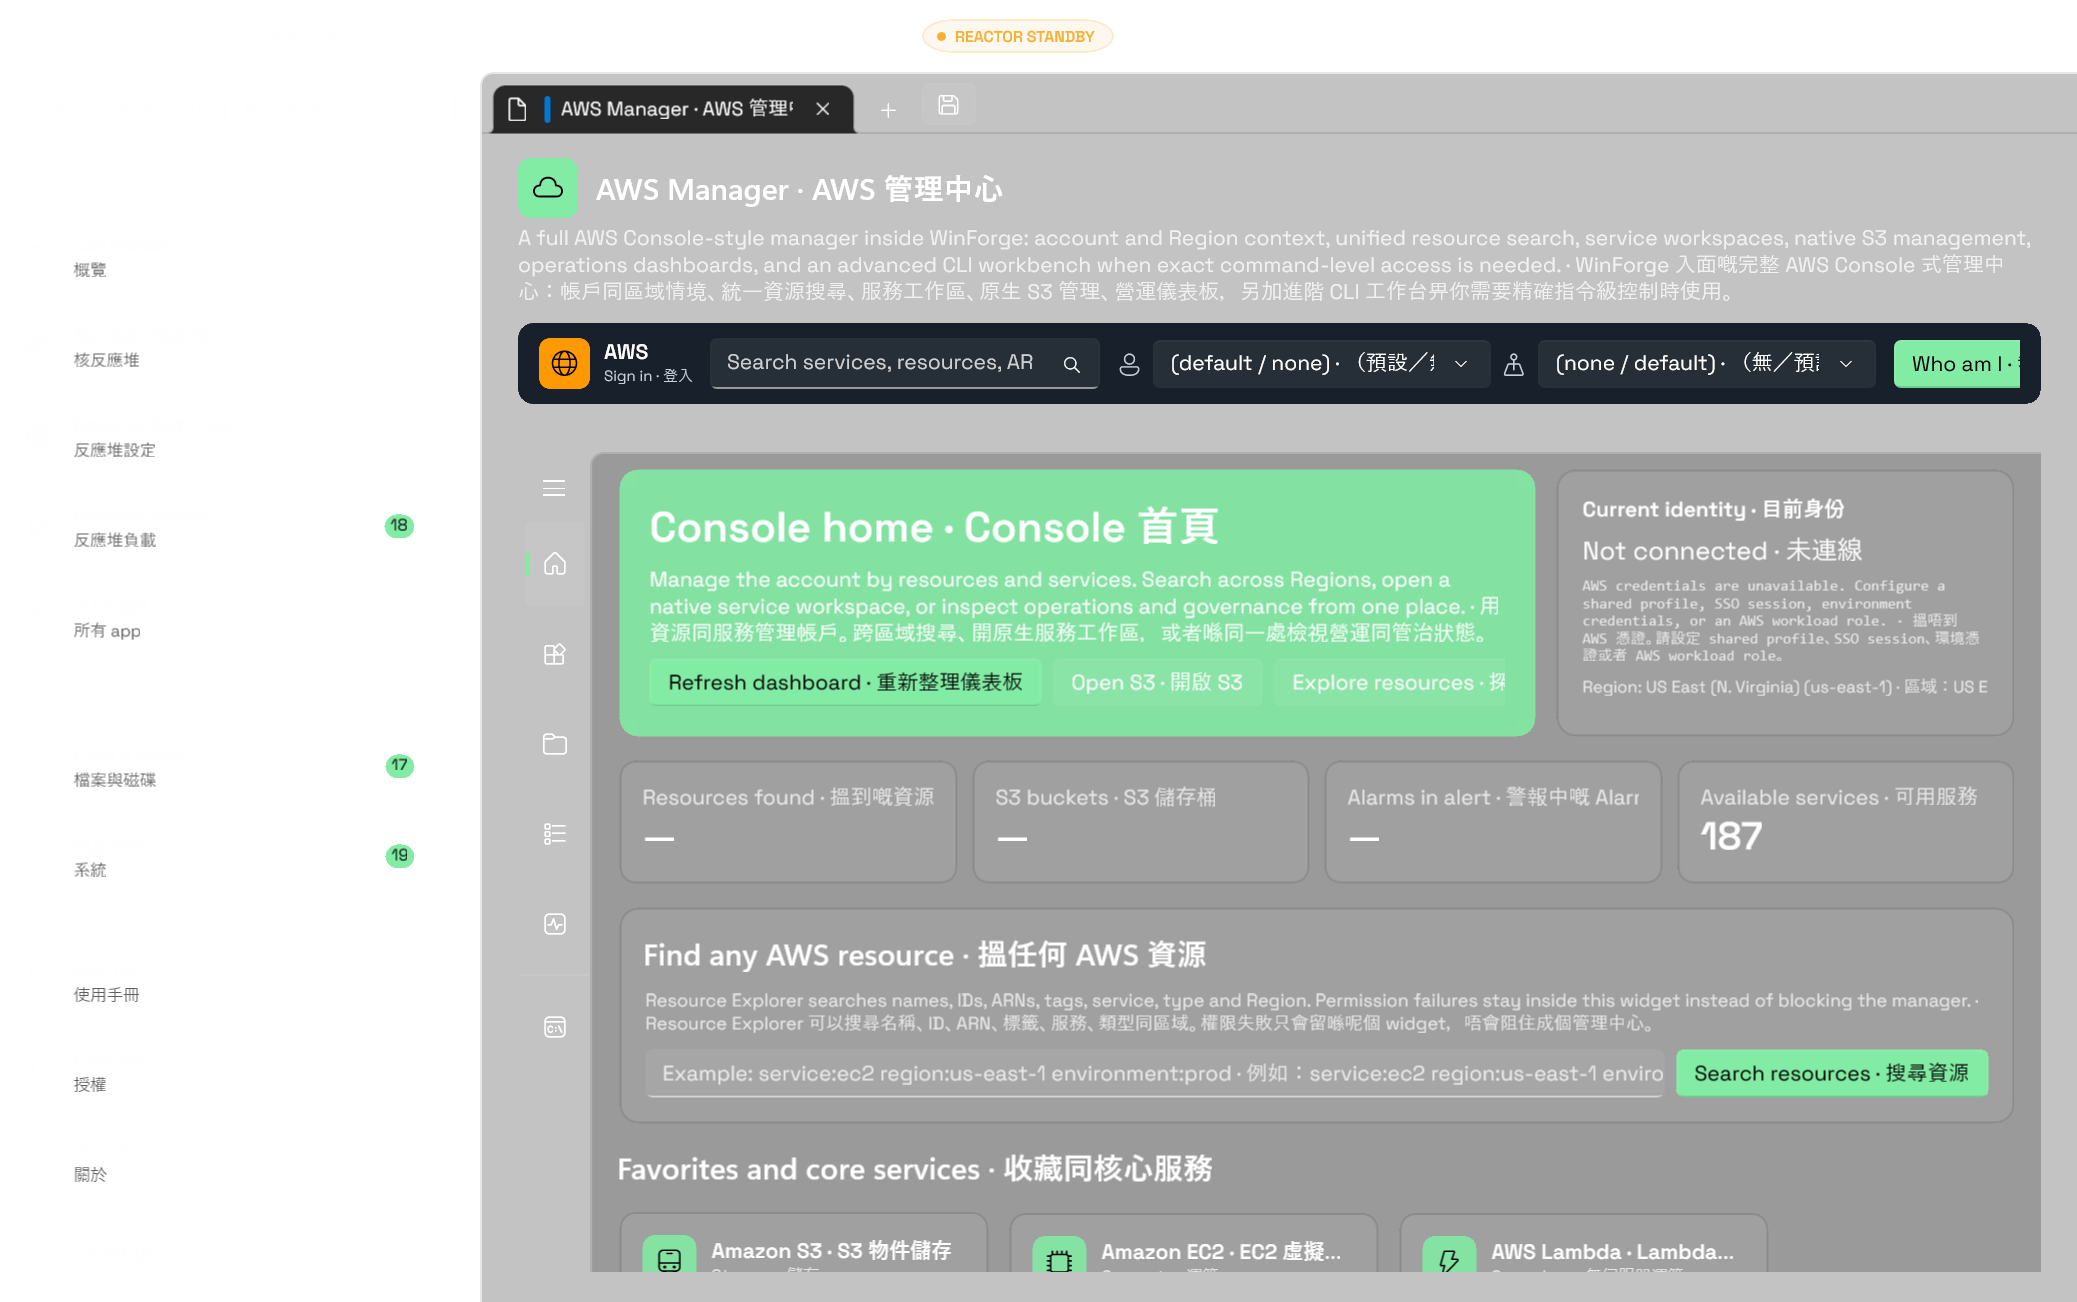
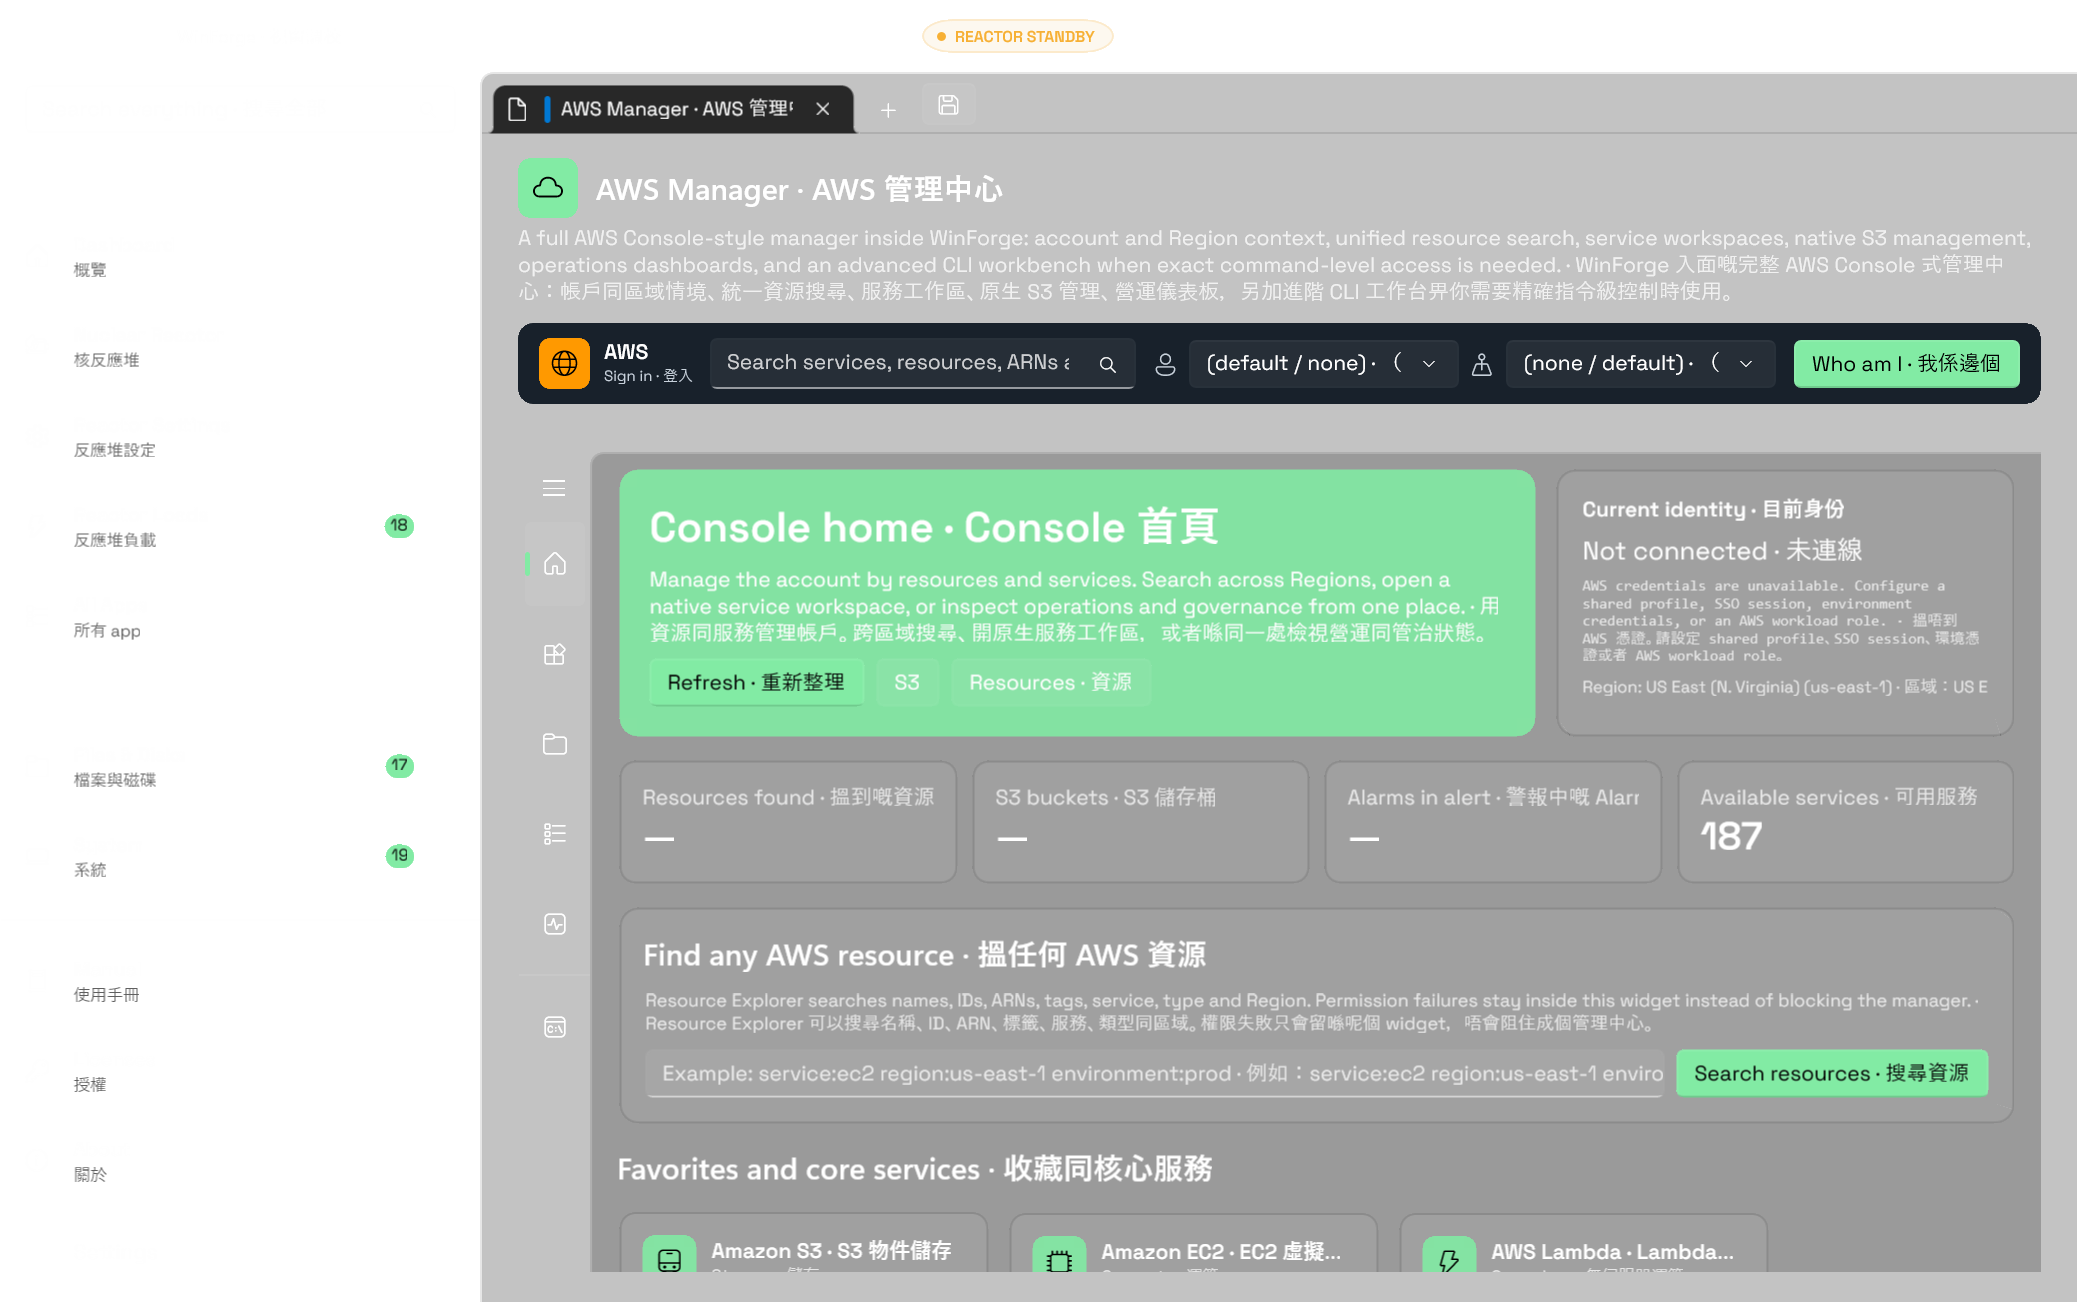
fix(aws): polish console header and refresh capture / 修整 AWS 主控台頁首及截圖

diff --git a/Pages/AwsCliModule.xaml b/Pages/AwsCliModule.xaml
@@ -209,13 +209,13 @@
                     <TextBlock x:Name="ProfileLabel" Foreground="#FFC7D1DB" VerticalAlignment="Center" Visibility="Collapsed" />
                     <ComboBox
                         x:Name="ProfileBox"
-                        Width="225"
+                        Width="180"
                         SelectionChanged="ProfileBox_Changed" />
                     <FontIcon x:Name="RegionContextIcon" FontSize="15" Foreground="#FFC7D1DB" Glyph="&#xE707;" />
                     <TextBlock x:Name="RegionLabel" Foreground="#FFC7D1DB" VerticalAlignment="Center" Visibility="Collapsed" />
                     <ComboBox
                         x:Name="RegionBox"
-                        Width="225"
+                        Width="180"
                         SelectionChanged="RegionBox_Changed" />
                 </StackPanel>
 

diff --git a/Pages/AwsCliModule.Console.cs b/Pages/AwsCliModule.Console.cs
@@ -121,9 +121,9 @@ public sealed partial class AwsCliModule
         HomeSubtitle.Text = P(
             "Manage the account by resources and services. Search across Regions, open a native service workspace, or inspect operations and governance from one place.",
             "用資源同服務管理帳戶。跨區域搜尋、開原生服務工作區，或者喺同一處檢視營運同管治狀態。");
-        HomeRefreshBtn.Content = P("Refresh dashboard", "重新整理儀表板");
-        OpenS3Btn.Content = P("Open S3", "開啟 S3");
-        OpenResourcesBtn.Content = P("Explore resources", "探索資源");
+        HomeRefreshBtn.Content = P("Refresh", "重新整理");
+        OpenS3Btn.Content = P("S3", "S3");
+        OpenResourcesBtn.Content = P("Resources", "資源");
         IdentityCardTitle.Text = P("Current identity", "目前身份");
         ResourceCountLabel.Text = P("Resources found", "搵到嘅資源");
         BucketCountLabel.Text = P("S3 buckets", "S3 儲存桶");